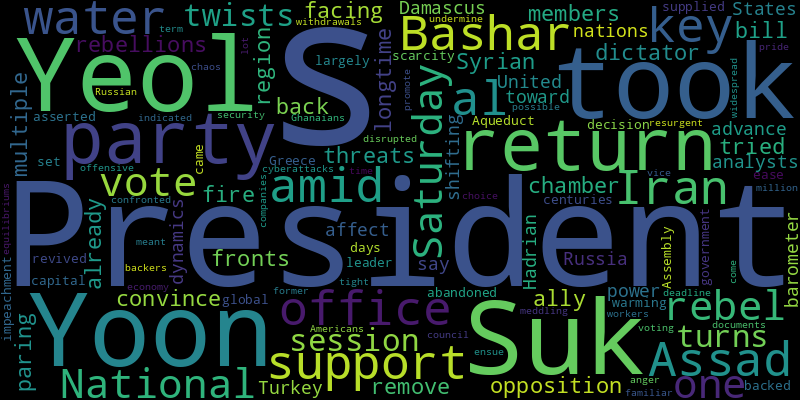
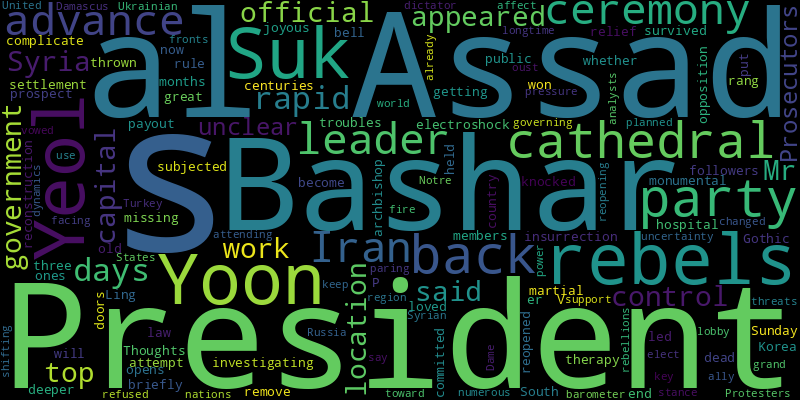
chore(bot): 🤖 auto commit

diff --git a/README.md b/README.md
@@ -2,41 +2,41 @@
 Auto RSS New York Times and Generate Word Cloud
 
 ## New York Times Global News
-* The session took twists and turns as the opposition tried to convince members of President Yoon Suk Yeol’s party to return to the chamber and support the bill to remove him from office.
-* The longtime Syrian dictator Bashar al-Assad is facing threats from rebellions on multiple fronts and his key ally, Iran, is paring back support.
+* After just a few days of rapid advances, the rebels appeared to control Syria’s capital. They said they would work with a top official in President Bashar al-Assad’s government. Mr. al-Assad’s location was unclear.
+* Prosecutors are investigating whether President Yoon Suk Yeol and his followers committed insurrection when they briefly put South Korea under martial law.
+* Ling’er won a settlement payout from the hospital where she was held for three months against her will and subjected to electroshock therapy.
+* Thoughts of loved ones dead or missing complicate joyous relief at the prospect of an end to the rule of Bashar al-Assad.
+* President Yoon Suk Yeol survived an opposition-led attempt to remove him by getting his party members to back him. But his troubles could now become theirs too.
+* A centuries-old bell rang and an archbishop knocked at the Gothic cathedral’s great doors, which reopened for a V.I.P. ceremony after its monumental reconstruction. It opens to the public on Sunday.
+* The country was thrown into deeper uncertainty after the governing party changed its stance and refused to oust him. Protesters vowed to keep the pressure on.
+* The Ukrainian leader planned to use the grand reopening of Notre-Dame Cathedral to lobby the president-elect and other world leaders attending the ceremony.
+* The longtime Syrian dictator Bashar al-Assad is facing threats from rebellions on numerous fronts as his key ally, Iran, is paring back support.
 * In a region “already on fire,” analysts say, rebels’ advance toward Damascus is a barometer of the shifting power dynamics that also affect nations like Iran, Turkey, Russia and the United States.
-* Hadrian’s Aqueduct supplied water to Greece’s capital for centuries but was then largely abandoned. It’s being revived to ease water scarcity amid global warming.
-* The leader of President Yoon Suk Yeol’s own party has backed impeachment, on which the National Assembly is set to vote on Saturday.
-* The decision came days after the government asserted that there had been “cyberattacks” meant to undermine the vote and security council documents indicated possible Russian meddling.
-* The withdrawals by one of President Bashar al-Assad’s key backers come amid a resurgent rebel offensive.
-* Ghanaians voting on Saturday are confronted with a choice familiar to Americans: Return a one-term former president to office, or promote the vice president, at a time when anger over the economy is widespread.
-* When equilibriums are disrupted, chaos can ensue.
-* It took about 250 companies, 2,000 workers, about $900 million, a tight deadline and a lot of national pride.
 
 ![Global](./global.png)
 ## New York Times United States News
-* A group that successfully challenged affirmative action at the Supreme Court had also sued the military academies. But, the judge said, “the U.S. Naval Academy is distinct from a civilian university.”
-* In the long-running war inside the Texas G.O.P., Dade Phelan survived a primary against a Trump-backed novice. But his increasingly conservative caucus turned against him.
-* The council member, Tania Fernandes Anderson, was arrested on public corruption charges involving an alleged kickback.
-* Northern California cities and residents seemed unsure on Thursday about the best response to an official tsunami warning that went out to five million Californians.
-* Worried that the campaign was neglecting voters of color in Philadelphia and other battleground cities, organizers secretly gathered at a Dunkin’ Donuts and elsewhere to get out the vote.
+* The Ohio city’s mayor and the family of the 15-year-old, Jazmir Tucker, raised concerns about how officers handled the incident.
 * The desks came out of a dumpster, and the computers are hand-me-downs. But students say Abundance Academy is a haven from bullying and crowded classes.
-* Smartphone apps downloaded from Apple and Google can allow parents and other abusers to connect with pedophiles who pay to watch — and direct — criminal behavior.
-* Leaders of the Trump and Harris campaigns met this week to talk tactics. It wasn’t pretty.
-* The involvement of wealthy investors has made this presidential transition one of the most potentially conflict-ridden in modern history.
-* The United Nations chief inspector says production has quadrupled. But it is not clear whether Iran is trying to touch off a crisis or gather bargaining chips for negotiations with the United States.
+* In the long-running war inside the Texas G.O.P., Dade Phelan survived a primary against a Trump-backed novice. But his increasingly conservative caucus turned against him.
+* Northern California cities and residents seemed unsure on Thursday about the best response to an official tsunami warning that went out to five million Californians.
+* Over the past four years, the department has confronted the challenge of China by restricting key exports, a policy that is likely to continue in the Trump administration.
+* As Democrats try to fire up their fatigued base, two contests for the Virginia legislature will serve as the first measure of partisan enthusiasm since Donald J. Trump’s victory.
+* A confidential Navy program is studying whether intense fighter jet operations can cause devastating brain injuries in flight crews.
+* The slippers, worn by Judy Garland in “The Wizard of Oz,” were stolen from the museum that bears her name in 2005 before investigators recovered them in 2018.
+* Applicants for government posts, including inside the Pentagon and the intelligence agencies, say they have been asked about their thoughts on Jan. 6 and who they believe won the 2020 election.
+* Herman Whitfield III had told officers “I’m dying” and that he couldn’t breathe after one of the officers deployed a Taser, according to body camera footage.
 
 ![US](./usnews.png)
 ## New York Times Asia News
+* Ling’er won a settlement payout from the hospital where she was held for three months against her will and subjected to electroshock therapy.
+* Prosecutors are investigating whether President Yoon Suk Yeol and his followers committed insurrection when they briefly put South Korea under martial law.
+* A top-selling pop singer as a teenager in the 1980s, she also had an award-winning career as a dramatic actress.
+* The country was thrown into deeper uncertainty after the governing party changed its stance and refused to oust him. Protesters vowed to keep the pressure on.
+* President Yoon Suk Yeol survived an opposition-led attempt to remove him by getting his party members to back him. But his troubles could now become theirs too.
 * The art collective behind teamLab, which started in Japan, has expanded across the world, developing partnerships to pay for its immersive technology.
-* Demonstrations in the city and nationwide demanding the ouster of President Yoon Suk Yeol intensified through the week, and Saturday’s rally was the largest yet.
+* Demonstrations in the city and nationwide demanding the president’s ouster intensified through the week, and Saturday’s rally was the largest yet.
 * President Yoon Suk Yeol said his declaration of martial law was born out of “desperation,” and apologized for causing “anxiety.”
 * A perennial front-runner for the Nobel Prize in Literature, he was a revered figure in Japan, not just in literary circles but also among casual readers.
 * Europe’s new pact with South America, its largest deal to date, could be a sign of how countries will diversify trade relationships as Donald Trump threatens tariffs.
-* A diplomatic dispute over claims of persecution of Bangladeshi Hindus threatens to upend Bangladesh’s interim government.
-* The last time South Korea imposed martial law, Gwangju endured a deadly crackdown. Han Kang, the Nobel Prize-winning author, told its story in “Human Acts.”
-* The police suspended their search for two Americans and a Canadian who went missing while trying to reach the summit of Aoraki/Mount Cook.
-* The leader of President Yoon Suk Yeol’s own party has backed impeachment, on which the National Assembly is set to vote on Saturday.
-* Plus, a celebration of art in Dakar.
 
 ![Asian](./asian.png)

diff --git a/archive/2024-12-07.md b/archive/2024-12-07.md
@@ -1,0 +1,42 @@
+# NewsArchive
+Auto RSS New York Times and Generate Word Cloud
+
+## New York Times Global News
+* The session took twists and turns as the opposition tried to convince members of President Yoon Suk Yeol’s party to return to the chamber and support the bill to remove him from office.
+* The longtime Syrian dictator Bashar al-Assad is facing threats from rebellions on multiple fronts and his key ally, Iran, is paring back support.
+* In a region “already on fire,” analysts say, rebels’ advance toward Damascus is a barometer of the shifting power dynamics that also affect nations like Iran, Turkey, Russia and the United States.
+* Hadrian’s Aqueduct supplied water to Greece’s capital for centuries but was then largely abandoned. It’s being revived to ease water scarcity amid global warming.
+* The leader of President Yoon Suk Yeol’s own party has backed impeachment, on which the National Assembly is set to vote on Saturday.
+* The decision came days after the government asserted that there had been “cyberattacks” meant to undermine the vote and security council documents indicated possible Russian meddling.
+* The withdrawals by one of President Bashar al-Assad’s key backers come amid a resurgent rebel offensive.
+* Ghanaians voting on Saturday are confronted with a choice familiar to Americans: Return a one-term former president to office, or promote the vice president, at a time when anger over the economy is widespread.
+* When equilibriums are disrupted, chaos can ensue.
+* It took about 250 companies, 2,000 workers, about $900 million, a tight deadline and a lot of national pride.
+
+![Global](./global.png)
+## New York Times United States News
+* A group that successfully challenged affirmative action at the Supreme Court had also sued the military academies. But, the judge said, “the U.S. Naval Academy is distinct from a civilian university.”
+* In the long-running war inside the Texas G.O.P., Dade Phelan survived a primary against a Trump-backed novice. But his increasingly conservative caucus turned against him.
+* The council member, Tania Fernandes Anderson, was arrested on public corruption charges involving an alleged kickback.
+* Northern California cities and residents seemed unsure on Thursday about the best response to an official tsunami warning that went out to five million Californians.
+* Worried that the campaign was neglecting voters of color in Philadelphia and other battleground cities, organizers secretly gathered at a Dunkin’ Donuts and elsewhere to get out the vote.
+* The desks came out of a dumpster, and the computers are hand-me-downs. But students say Abundance Academy is a haven from bullying and crowded classes.
+* Smartphone apps downloaded from Apple and Google can allow parents and other abusers to connect with pedophiles who pay to watch — and direct — criminal behavior.
+* Leaders of the Trump and Harris campaigns met this week to talk tactics. It wasn’t pretty.
+* The involvement of wealthy investors has made this presidential transition one of the most potentially conflict-ridden in modern history.
+* The United Nations chief inspector says production has quadrupled. But it is not clear whether Iran is trying to touch off a crisis or gather bargaining chips for negotiations with the United States.
+
+![US](./usnews.png)
+## New York Times Asia News
+* The art collective behind teamLab, which started in Japan, has expanded across the world, developing partnerships to pay for its immersive technology.
+* Demonstrations in the city and nationwide demanding the ouster of President Yoon Suk Yeol intensified through the week, and Saturday’s rally was the largest yet.
+* President Yoon Suk Yeol said his declaration of martial law was born out of “desperation,” and apologized for causing “anxiety.”
+* A perennial front-runner for the Nobel Prize in Literature, he was a revered figure in Japan, not just in literary circles but also among casual readers.
+* Europe’s new pact with South America, its largest deal to date, could be a sign of how countries will diversify trade relationships as Donald Trump threatens tariffs.
+* A diplomatic dispute over claims of persecution of Bangladeshi Hindus threatens to upend Bangladesh’s interim government.
+* The last time South Korea imposed martial law, Gwangju endured a deadly crackdown. Han Kang, the Nobel Prize-winning author, told its story in “Human Acts.”
+* The police suspended their search for two Americans and a Canadian who went missing while trying to reach the summit of Aoraki/Mount Cook.
+* The leader of President Yoon Suk Yeol’s own party has backed impeachment, on which the National Assembly is set to vote on Saturday.
+* Plus, a celebration of art in Dakar.
+
+![Asian](./asian.png)
